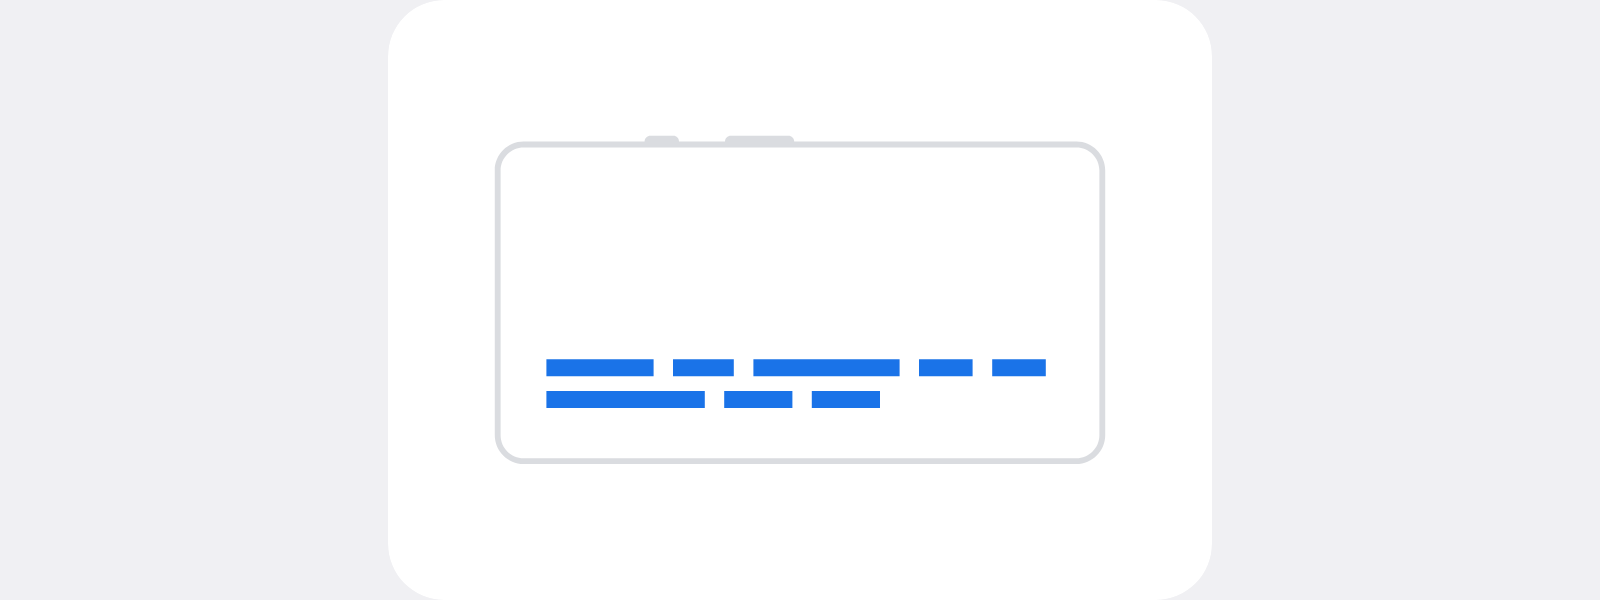
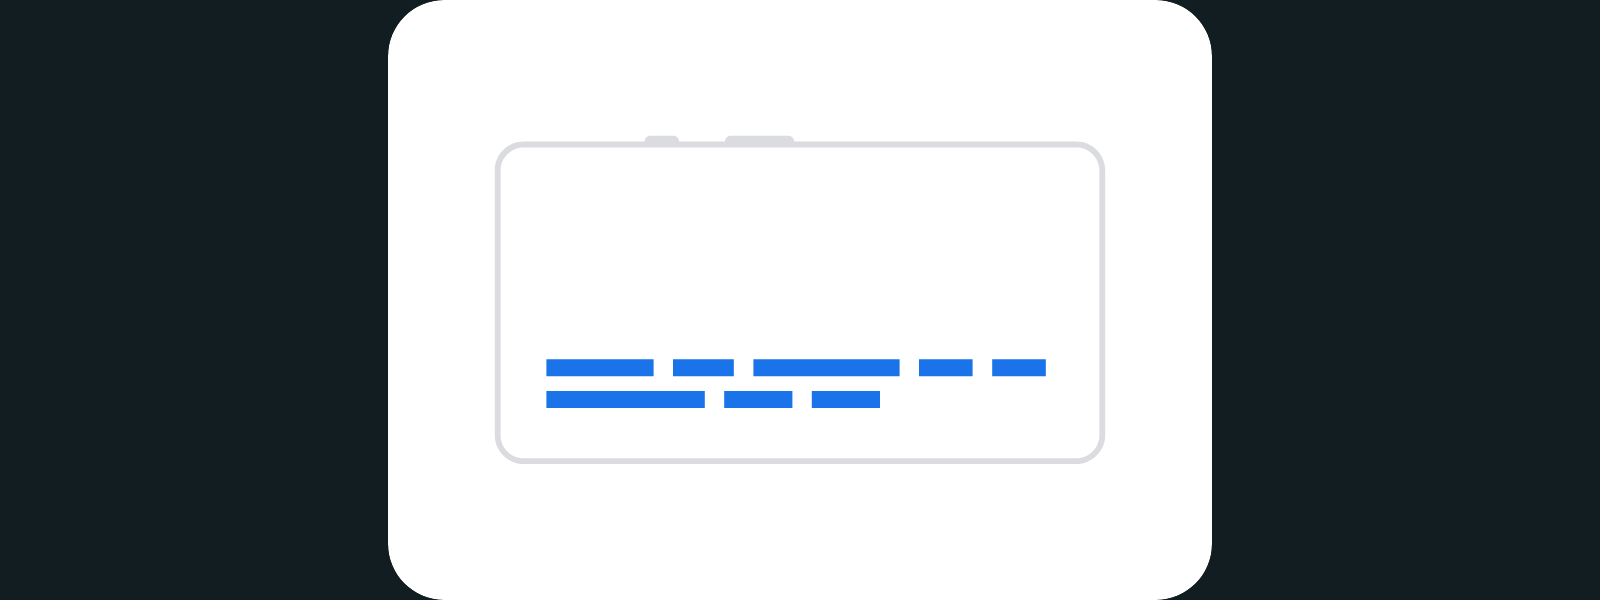
Applies Material You Colors+Dark Theme in Spa tests.
Yesterday a Robolectric library change was checked in, which enabled the
possibility of Material You Colors+Dark Theme in RNG tests. This CL
applies Material You Colors to Settings Spa test.

Test: http://ab/I52500010253535653

diff --git a/packages/SettingsLib/Spa/screenshot/src/com/android/settingslib/spa/screenshot/util/SettingsScreenshotTestRule.kt b/packages/SettingsLib/Spa/screenshot/src/com/android/settingslib/spa/screenshot/util/SettingsScreenshotTestRule.kt
@@ -50,19 +50,15 @@ class SettingsScreenshotTestRule(
             )
         )
     private val composeRule = createAndroidComposeRule<ComponentActivity>()
-    private val roboRule =
-        RuleChain.outerRule(deviceEmulationRule)
-            .around(screenshotRule)
-            .around(composeRule)
     private val delegateRule =
         RuleChain.outerRule(colorsRule)
-            .around(roboRule)
+            .around(deviceEmulationRule)
+            .around(screenshotRule)
+            .around(composeRule)
     private val matcher = UnitTestBitmapMatcher
-    private val isRobolectric = if (Build.FINGERPRINT.contains("robolectric")) true else false
 
     override fun apply(base: Statement, description: Description): Statement {
-        val ruleToApply = if (isRobolectric) roboRule else delegateRule
-        return ruleToApply.apply(base, description)
+        return delegateRule.apply(base, description)
     }
 
     /**
